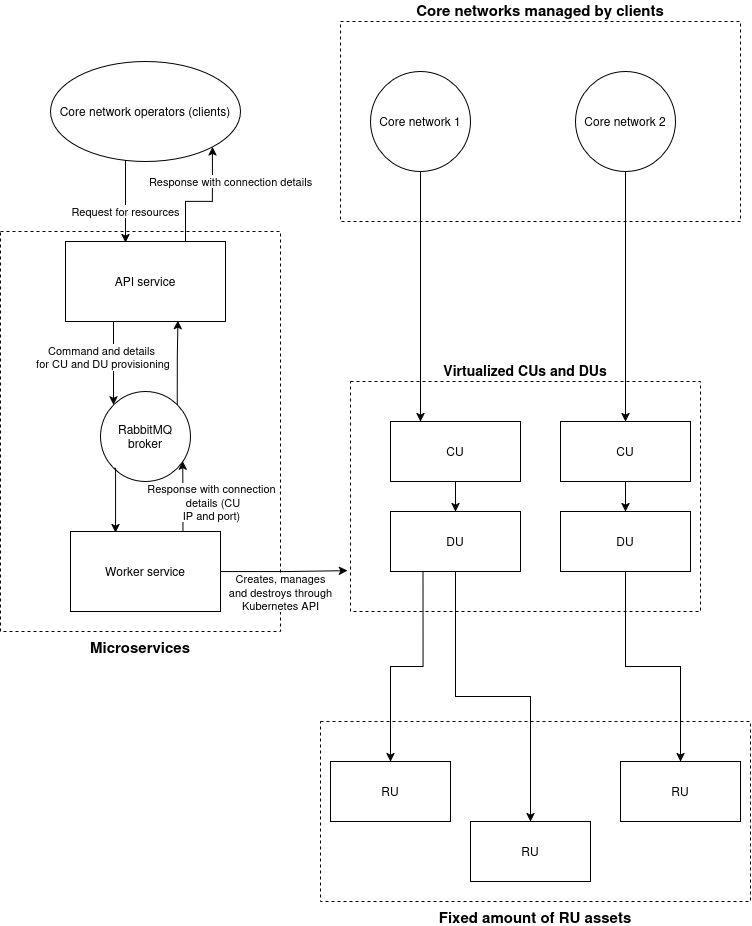
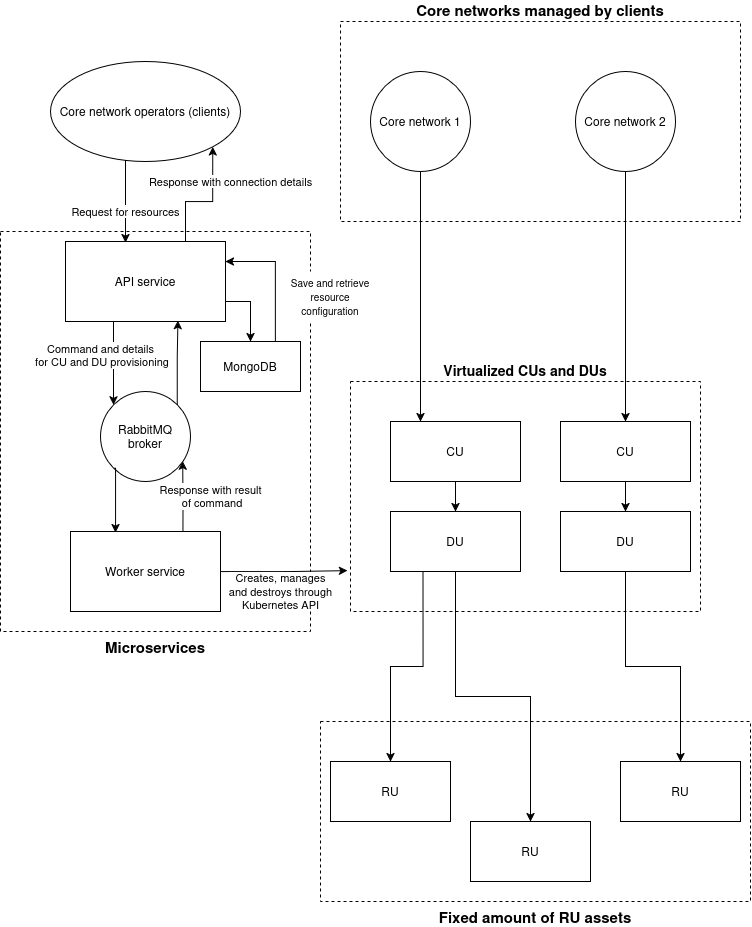
Update architecture.md

diff --git a/doc/architecture.md b/doc/architecture.md
@@ -1,10 +1,12 @@
 # Service architecture for RANaaS implementation using srsRAN and Kubernetes
 
-The proposed architecture consists of an API microservice that receives resource requests from core network operators, and forwards them to a worker microservice that provisions the required resources (virtualized CU and DU), and connects the DU to a number of RUs.
+The architecture consists of an API microservice that receives resource requests from core network operators, and forwards them to a worker microservice that provisions the required resources (virtualized CU and DU), and connects the DU to a number of RUs.
 
 After finishing its work, the worker service reports back to the API service, which sends a reponse containing connection details in order to connect the core network to the provisioned CU.
 
 The CUs and DUs are fully virtualized and run in Kubernetes pods. The RUs are also virtual (implemented with srsRAN ru_emulator) and run in Kubernetes.
+
+The configuration and the unique ID of each RAN deployment is stored to a MongoDB database, so that users can interact with it easily. The information in the database is also exposed through the API service.
 
 The full architecture is depicted in diagram below.
 
